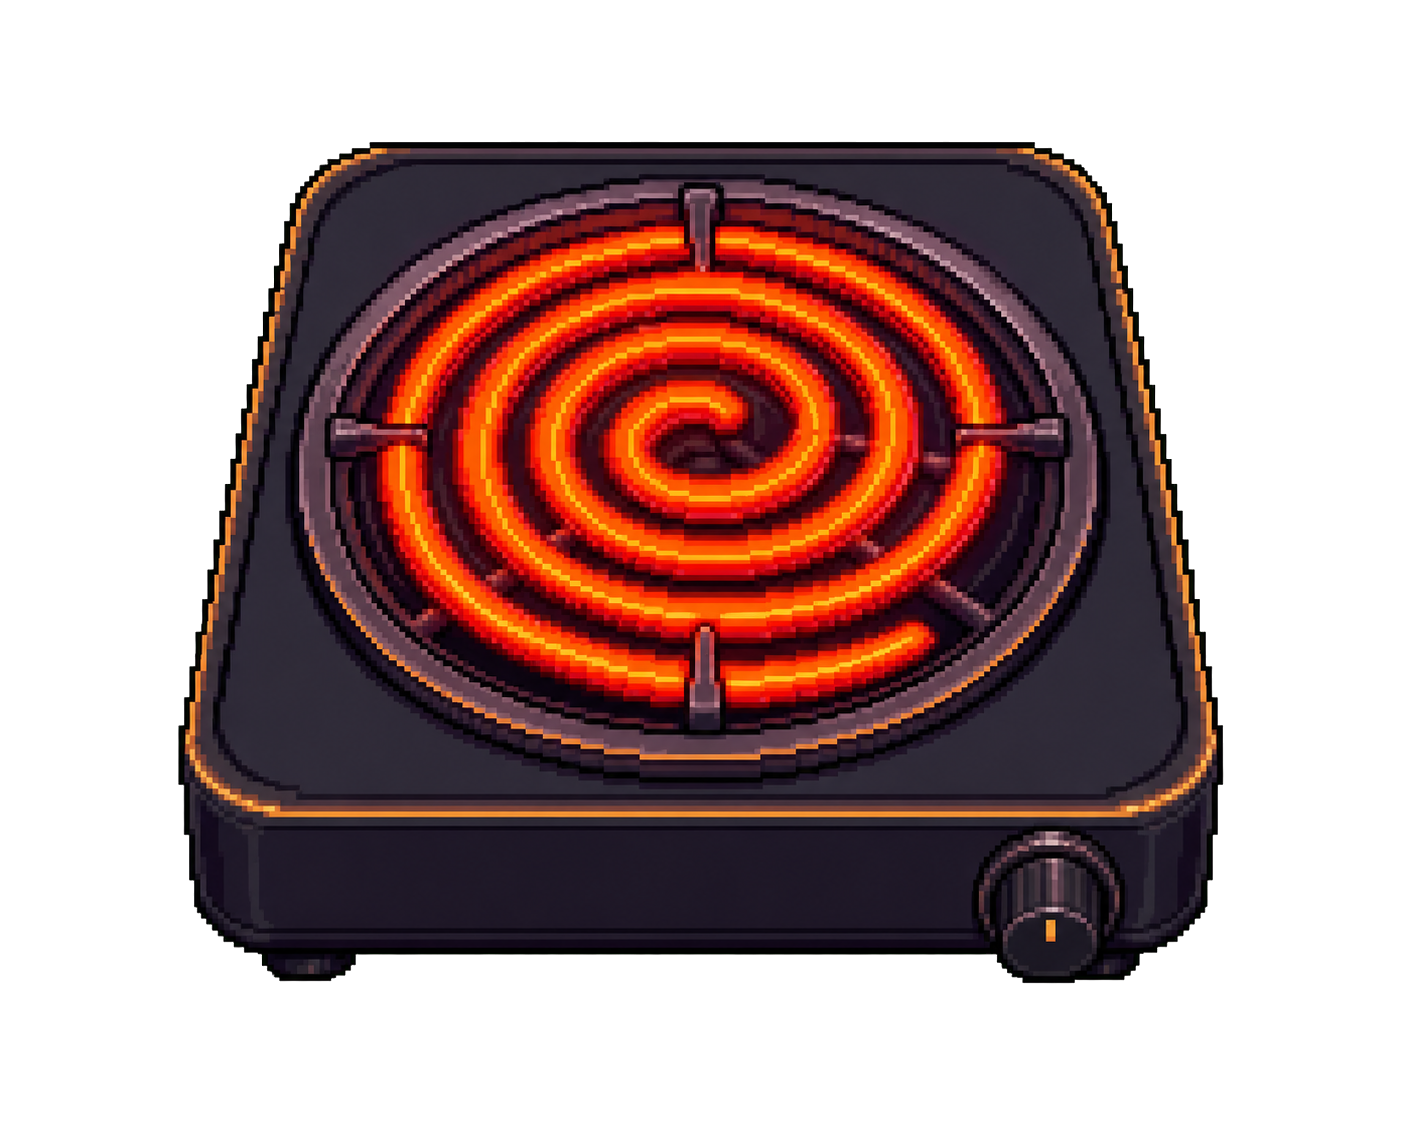
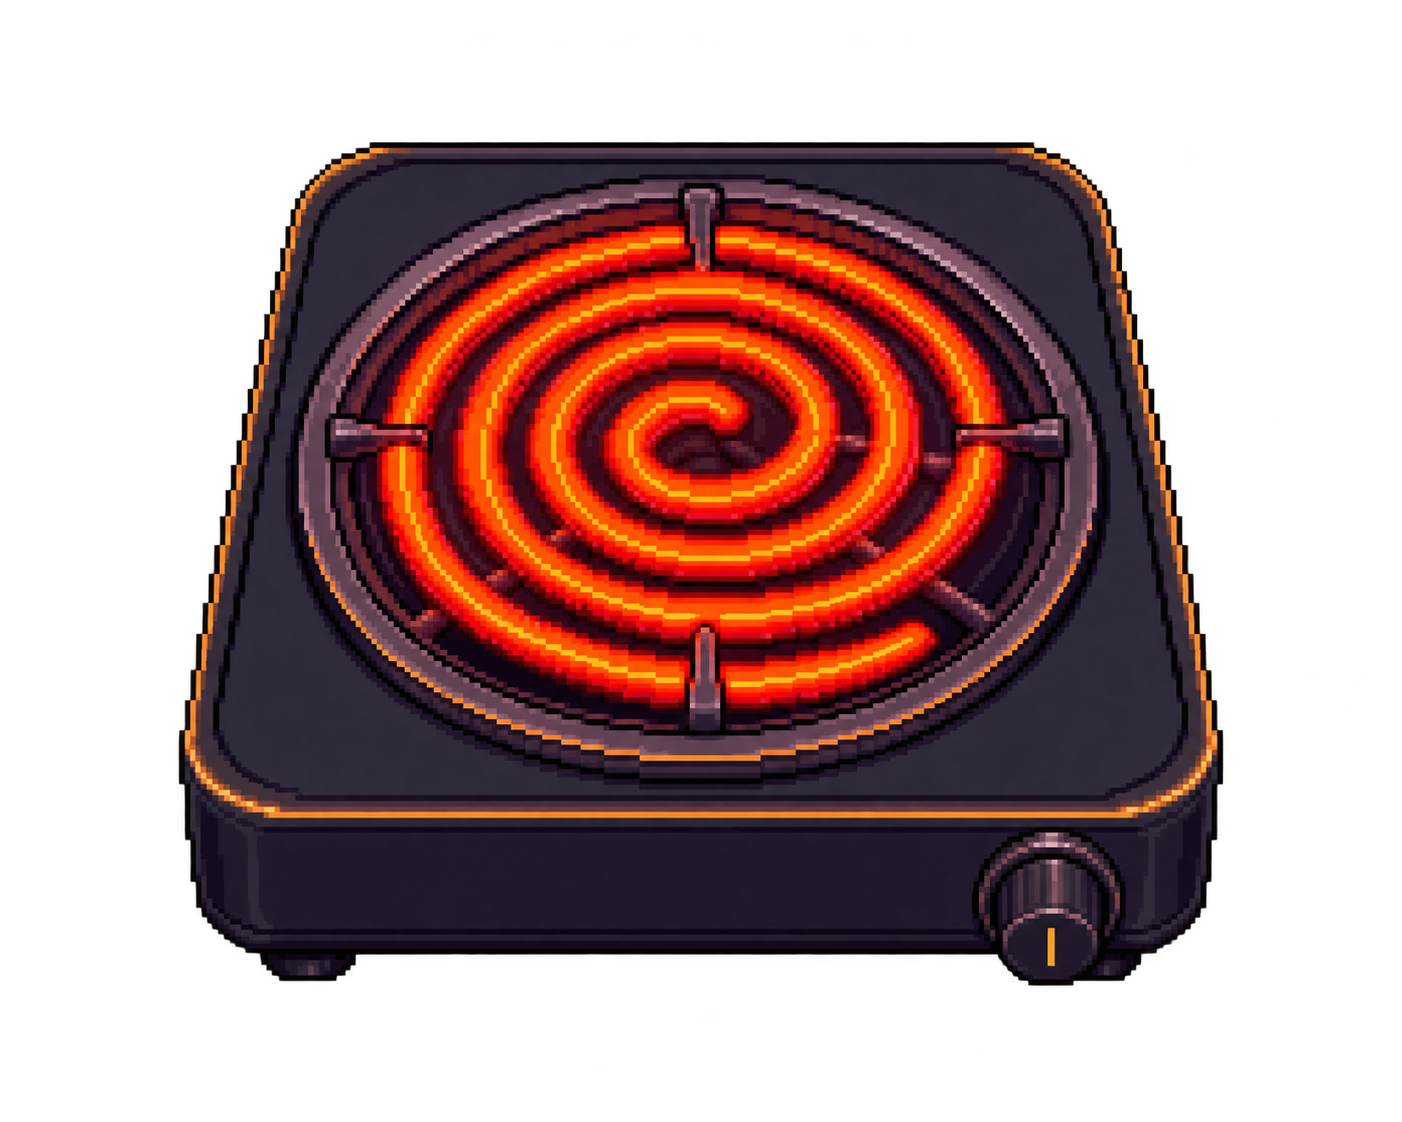
主人公エリア中央のカットイン比較とコンロつまみ修正を保存

diff --git a/asset_sources/craft-success-cutins/placements-v2-20261008/placement.js b/asset_sources/craft-success-cutins/placements-v2-20261008/placement.js
@@ -10,7 +10,8 @@
     pair: { name: 'A：左枠の下に2コマ', duration: 740 },
     peek: { name: 'B：左端から顔だけ', duration: 620 },
     window: { name: 'C：左枠を漫画に切替', duration: 960 },
-    full: { name: 'D：全画面＋時間停止', duration: 1100 },
+    full: { name: 'D：全画面＋時間停止', duration: 1100, pauses: true },
+    center: { name: 'E：主人公エリア中央＋時間停止', duration: 1100, pauses: true },
   };
   function create(host, { scene = host.closest('.bench') || host, onPause, onResume } = {}) {
     let root = null, timer = 0, observer = null, animations = [], guard = null;
@@ -19,17 +20,18 @@
     function hide() {
       view.clearTimeout(timer); observer?.disconnect(); observer = null;
       if (!root) return;
-      const wasFull = root.dataset.variant === 'full';
+      const wasPaused = variants[root.dataset.variant].pauses;
       root.remove(); root = null;
       guard?.abort(); guard = null;
       for (const [animation, wasRunning] of animations) if (wasRunning && animation.playState === 'paused') animation.play();
       animations = [];
-      if (wasFull) onResume?.();
+      if (wasPaused) onResume?.();
     }
     function show(variant, { hold = false } = {}) {
       if (!variants[variant] || !host.isConnected || !scene.isConnected || blocked()) return false;
       hide();
       const full = variant === 'full';
+      const pauses = variants[variant].pauses;
       root = document.createElement('div'); root.className = 'craft-cutin-preview';
       root.dataset.variant = variant; root.setAttribute('aria-hidden', 'true');
       const visual = document.createElement('div'); visual.className = 'cc-visual';
@@ -37,23 +39,23 @@
       art.src = variant === 'peek' ? assets.face : assets.pair;
       const label = document.createElement('span'); label.className = 'cc-label'; label.textContent = 'EXCELLENT';
       visual.append(art, label); root.append(visual);
-      if (full) {
+      if (pauses) {
         onPause?.();
         animations = scene.getAnimations({ subtree: true }).map(a => [a, a.playState === 'running']);
         for (const [animation, wasRunning] of animations) if (wasRunning) animation.pause();
         // 既に押していたキーやパッドは、離す操作だけ届く。新しい操作を演出中に受け付けない。
         guard = new view.AbortController();
-        for (const type of ['keydown', 'pointerdown', 'pointermove']) view.addEventListener(type, e => {
+        for (const type of ['keydown', 'pointerdown', 'pointermove', 'click', 'dblclick']) view.addEventListener(type, e => {
           e.preventDefault(); e.stopImmediatePropagation();
         }, { capture: true, signal: guard.signal, passive: false });
       }
       (full ? scene : host).append(root);
       observer = new view.MutationObserver(() => { if (blocked() || !host.isConnected || !scene.isConnected) hide(); });
-      observer.observe(scene, { subtree: true, attributes: true, attributeFilter: ['open'] });
+      observer.observe(scene, { subtree: true, childList: true, attributes: true, attributeFilter: ['open'] });
       if (!hold) {
         const reduced = view.matchMedia('(prefers-reduced-motion: reduce)').matches;
         visual.animate(reduced ? [{ opacity: 0 }, { opacity: 1 }, { opacity: 1 }, { opacity: 0 }] : [
-          { opacity: 0, translate: full ? '-30px 0' : '-14px 0', scale: full ? '1.12' : '.97' },
+          { opacity: 0, translate: full ? '-30px 0' : '-14px 0', scale: pauses ? '1.12' : '.97' },
           { opacity: 1, translate: '0 0', scale: '1', offset: .15 },
           { opacity: 1, translate: '0 0', scale: '1', offset: .82 },
           { opacity: 0, translate: '5px 0', scale: '1' },

diff --git a/tools/browser/craft_cutin_preview.html b/tools/browser/craft_cutin_preview.html
@@ -16,12 +16,12 @@
   .note{margin:12px 0 0;color:#ccc1d2;font-size:13px}.note b{color:#eccea0}
 </style>
 <main>
-  <h1>全画面の漫画カットイン＋時間停止</h1>
-  <p>画面いっぱいの演出を本命にした試作。制作画面を操作しながら、演出と停止からの再開を試せます。</p>
+  <h1>漫画カットイン：全画面／主人公エリア中央</h1>
+  <p>画面いっぱいの迫力と、左側の中央へ収める出し方を比較。制作画面を操作しながら、演出と時間停止からの再開を試せます。</p>
   <div class="controls">
     <label>工程<select id="step"><option value="heat">炭焼き</option><option value="holes">穴あけ</option><option value="steam">蒸らし</option><option value="pull">吸い出し</option></select></label>
     <label>場面<select id="mode"><option value="drill">自主練</option><option value="tutorial">スミさんの練習</option><option value="tournament">大会</option></select></label>
-    <label>出し方<select id="variant"><option value="full" selected>D：全画面＋時間停止</option><option value="pair">A：左枠の下に2コマ</option><option value="peek">B：左端から顔だけ</option><option value="window">C：左枠を漫画に切替</option></select></label>
+    <label>出し方<select id="variant"><option value="full" selected>D：全画面＋時間停止</option><option value="center">E：主人公エリア中央＋時間停止</option><option value="pair">A：左枠の下に2コマ</option><option value="peek">B：左端から顔だけ</option><option value="window">C：左枠を漫画に切替（時間継続）</option></select></label>
     <button class="primary" id="play" disabled>カットインを再生</button>
     <button id="hold" disabled>静止で比較</button>
     <button id="restart">工程をやり直す</button>

diff --git a/tools/browser/craft_cutin_preview.js b/tools/browser/craft_cutin_preview.js
@@ -12,6 +12,7 @@
     peek: '<b>B：控えめな案。</b> 左端から顔のコマだけを少し見せる。約0.62秒。ゲームは進み続けます。',
     window: '<b>C：工程完了に向く案。</b> 左の作業風景を約0.96秒だけ漫画に切替。実況・体調表示・右の操作領域は残ります。',
     full: '<b>D：派手な大成功の案。</b> 全画面へ約1.1秒。演出中は炭・針・弾幕の時刻を止め、新しい入力も止めます。終わると続きから再開します。',
+    center: '<b>E：主人公エリア中央の案。</b> 左の作業風景の中央へ大きく約1.1秒。右の操作画面を見せたままゲーム時間と新しい入力を止め、終わると続きから再開します。',
   };
   const updateNote = () => { document.querySelector('#note').innerHTML = notes[variant.value]; };
   function cutin(holdStill) {

diff --git a/asset_sources/craft-success-cutins/placements-v2-20261008/placement.css b/asset_sources/craft-success-cutins/placements-v2-20261008/placement.css
@@ -31,6 +31,17 @@
 .craft-cutin-preview[data-variant="window"] .cc-label {
   left: 13%; bottom: 6%; font-size: clamp(16px, 6cqw, 34px);
 }
+.craft-cutin-preview[data-variant="center"] {
+  background: radial-gradient(ellipse at center, #342144b8, #17102038 75%);
+  pointer-events: auto;
+}
+.craft-cutin-preview[data-variant="center"] .cc-visual {
+  width: 104%; height: 100%; left: -2%; top: 0;
+}
+.craft-cutin-preview[data-variant="center"] .cc-label {
+  left: 7%; bottom: 16%; font-size: clamp(20px, 7cqw, 44px);
+  color: #f5deb1; background: #19101f; border-color: #f5deb1;
+}
 .craft-cutin-preview[data-variant="full"] {
   background: #09060e9c; pointer-events: auto;
 }

diff --git a/docs/owner_requests.md b/docs/owner_requests.md
@@ -6,12 +6,21 @@
 
 続く指示「画面いっぱいに迫力ある感じで出て時間止まるのがいいかも」で全画面＋一時停止を本命に変更。「カットインのコンロなんか真ん中に突起あるのおかしい」は生成コマ内の形状ミスとして修正する。先の小さい3案は比較履歴に保持する。
 
+追加「コンロのダイヤルが上向いてるのもおかしい 熱入ってるのに」。発熱中のコンロのつまみを時計回りのON側（真下）へ180°回した画像へ修正し、比較の背後と実際の炭焼き表示にも揃える。
+
+続く指示「右下というより180°回すだけでよかった 変に角度もつけずに」を優先し、元画像から目印だけ180°回して真下へ修正する。先の135°案は比較履歴に保持。続く指摘「オレンジの縦線が長くなってて意味ない」を受け、元の短い目印（9×21px）と同じ長さ・太さを下側へ移すよう再生成し、実ピクセル範囲も確認する。
+
+追加「左の主人公の様子の画面の中央にカットイン出るのもいいかも」。5つ目に左の主人公エリア中央＋一時停止を追加。右側の操作画面を残す案と全画面案を切り替えて比較する。
+
 | ID | 状態 | オーナー要望 |
 |---|---|---|
 | CI64 | 🔧 | 制作成功カットインの方向は2案目の漫画コマを好む。既存のはじめ・手元・紫のアクセントを保つ |
 | CI65 | 🔧 | ゲームを妨げないよう、空いている領域や画面端から一部だけ出す配置を複数試す |
 | CI66 | 🔧 | カットインを全画面に派手に出し、その間だけゲーム時間を止める案も試す |
 | CI67 | 🔧 | 漫画コマのコンロ中央の突起を除き、平らな電熱コイルの形状へ修正する |
+| CI68 | 🔧 | 発熱しているコンロのダイヤルが上向きなのはおかしい。元の上向きから180°回して真下。つまみの形・視点・傾きは元の絵のまま修正する |
+| CI70 | 🔧 | 炭焼きなどで主人公の下にあった実況コメントがないように見える。マージと場面別表示を調べる |
+| CI69 | 🔧 | 左の主人公の様子の画面の中央にカットインを出す案も比較する |
 
 CI62／63は未マージのPR #232で使用済みのIDとして保持。既存の背景保留BG01は素材未受領のため継続。
 
